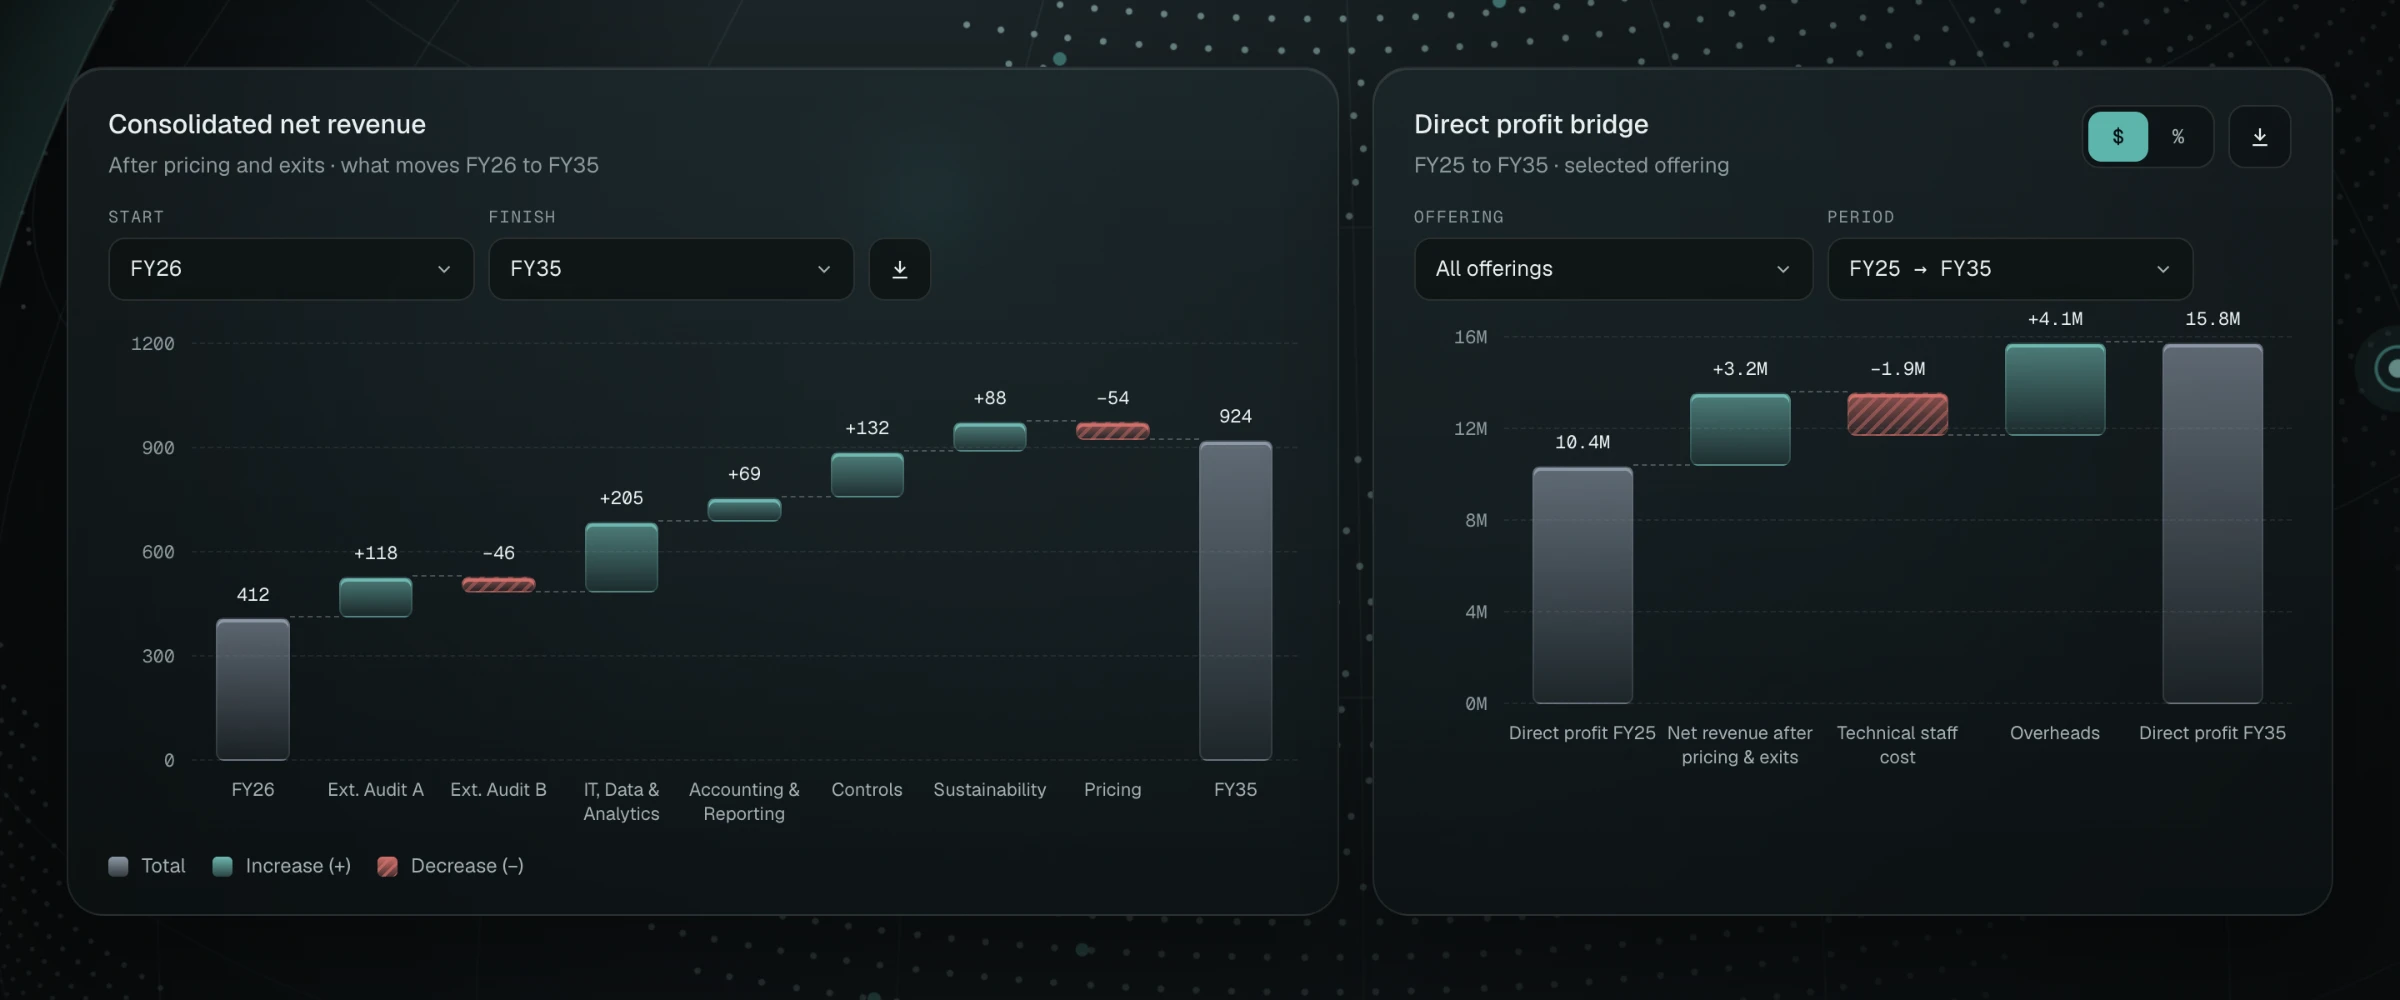
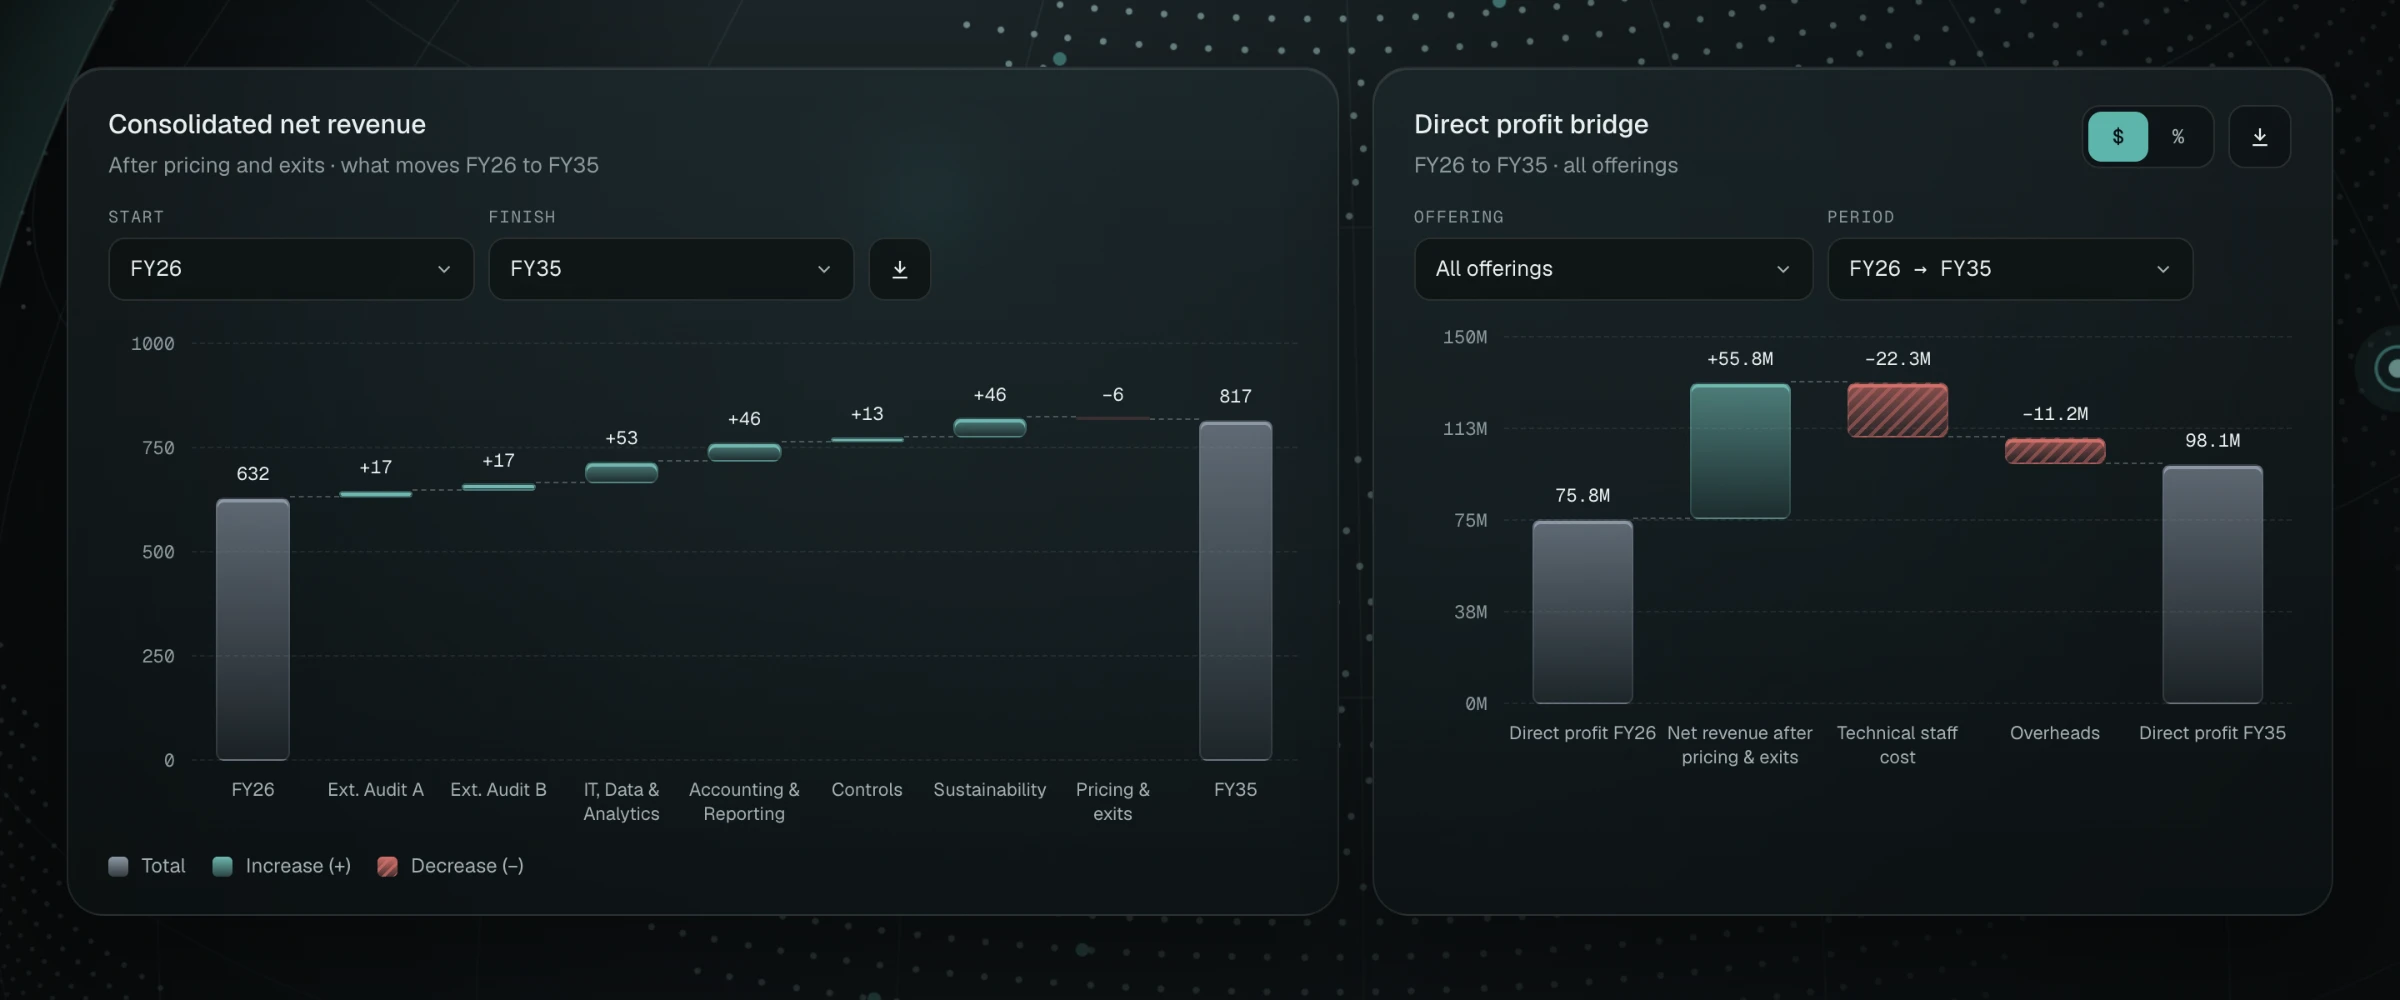
gaapt: posters from data model v2, DESIGN.md 5.8

diff --git a/DESIGN.md b/DESIGN.md
@@ -933,6 +933,20 @@ The GAAPT case (`cases/gaapt/`, added 2026-11-12) has a dark body to match the p
 
 **Tags.** Before and After use the same neutral §4.17 Tag style (2026-11-12): the remapped `--background`, `--line` and `--text-2`, no accent and no colour difference.
 
+**Live demos** (2026-11-12). Two self-contained, same-origin pages in `cases/gaapt/demo/` run inside the case. The owner wrote them; their logic is not edited here.
+
+| Value | Where / why |
+|---|---|
+| Live cover: render size `1440 × 1188` CSS px | `demo/dashboard.html#embed=cover` in an iframe over the cover poster (`.gp-cover-live`, `width`/`height` attributes). 1440 × 1188 is the poster's ratio (`cover.webp` 2400 × 1980 is the same view at 2400/1440), so the frame can sit on the poster 1:1 |
+| Live cover: scale to frame | The script at the end of `index.html` sets `transform: scale(<poster width> / 1440)` from `transform-origin: 0 0`, updated by a `ResizeObserver`; the wrapper keeps the poster's box, so nothing below moves |
+| Live cover: `≥ 1024` only | `matchMedia('(min-width: 1024px)')`. Below it the iframe is never created (no request for the demo) and the poster with its own caption is the cover; if the window narrows later, the iframe is hidden and the poster caption returns. At ≥1024 the caption reads "Live: remove a country or change the fiscal year." |
+| Live cover: `200ms` fade | Opacity 0 → 1 with `--ease-hover` after the iframe's `load` event (hidden until then, so the poster covers the wait). None under reduced motion: `case.css` drops every transition there. A one-off value below `--dur-micro` because it only hides the poster → live hand-over, which shows the same view |
+| Live cover: no scrollbars | The embed locks its own scroll (`overflow: hidden` on its root), so wheel input over the cover scrolls the page. Its globe is the only animated globe on the page and pauses itself when off screen |
+| Table demo: starting height `820px` | `demo/table.html` in Decision 03 (`.gp-demo`, `height` attribute): close to its first render (~802px), so the panel barely moves when the real height arrives |
+| Table demo: height follows content | The demo posts `{gaaptDemoHeight: n}` to the parent after every render. The page accepts it only from that iframe's `contentWindow` and sets the frame to the demo's body height (read directly, since the frame is same-origin; `n` is the fallback), so the frame grows and shrinks with the table and never scrolls inside. Below 768 the table scrolls sideways inside the frame |
+
+**Posters.** `cover.webp` and `bridge-after.webp` are rendered from the same `demo/dashboard.html` (data model v2) at 2× (`#embed=cover` at 1440 × 1188, `#shot=bridges` at 1440 × 600), so the poster and the live cover show the same numbers.
+
 **Rules.** Fonts unchanged (Onest + Geist Mono), so the case still belongs to the portfolio. No colours beyond this table. Text never below `--gp-text-3`.
 
 ---
